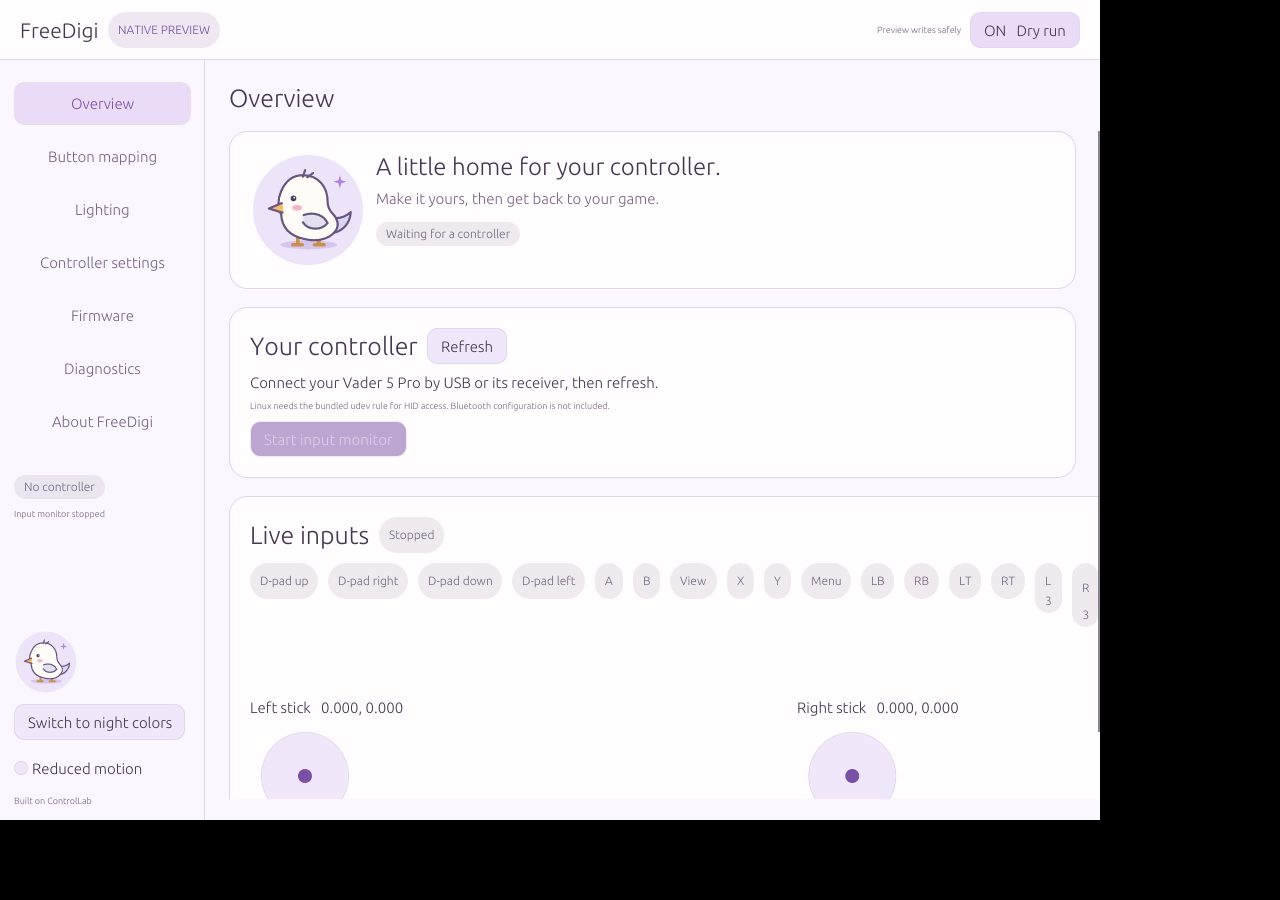
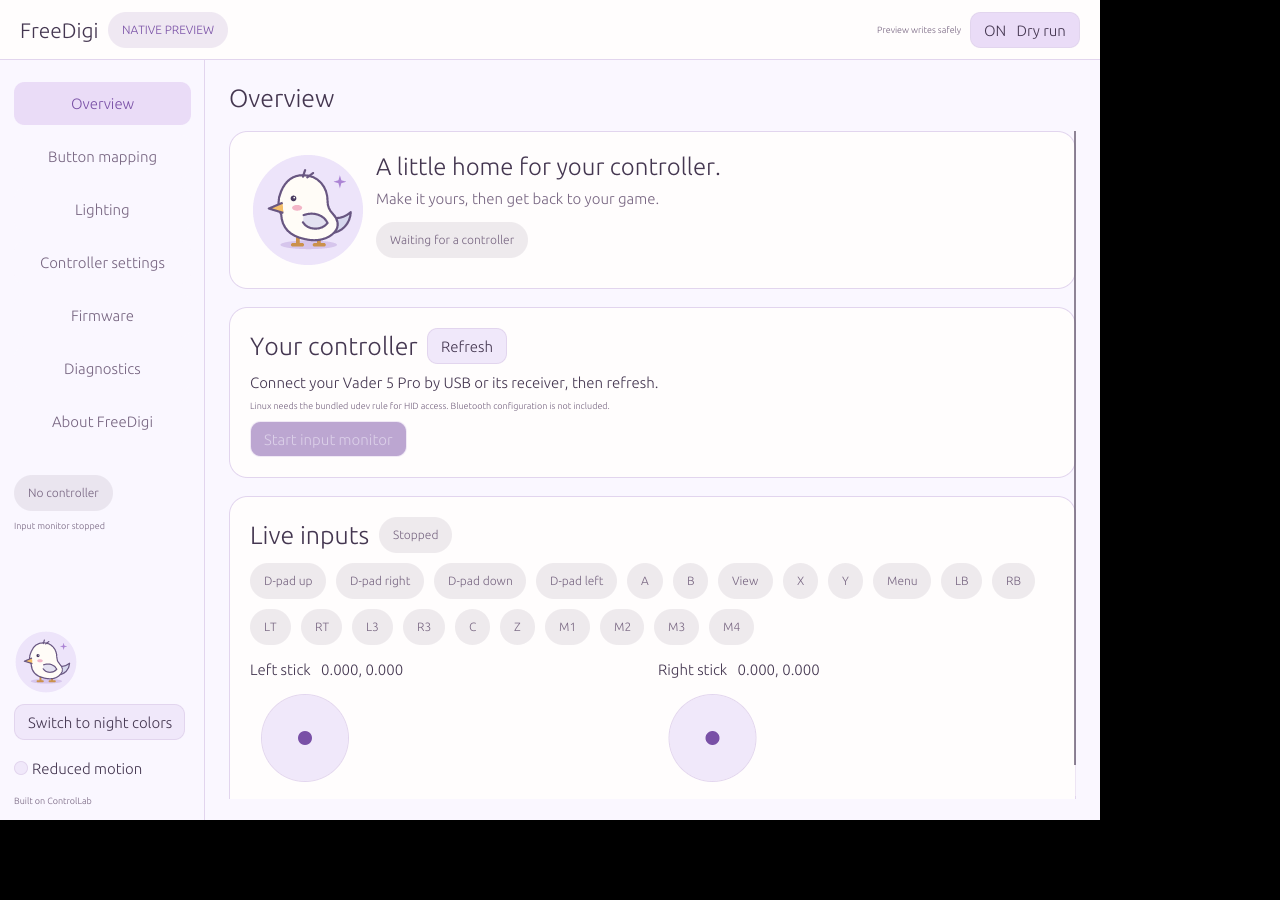
Speed up release builds and keep the Mac app ready to open

diff --git a/native/README.md b/native/README.md
@@ -63,3 +63,17 @@ toggle and installed firmware versions. Advanced mappings are preserved until
 edited. Macro/combo editors, firmware installation, Bluetooth configuration and
 virtual gamepad output are not included. Hardware I/O still needs validation on
 an attached controller. Windows is explicit unsupported-transport groundwork.
+
+## Build speed
+
+The package script builds **release only**, including its tests. Release has
+incremental compilation and 16 codegen units; whole-program LTO is disabled to
+avoid a costly relink after small edits. Cargo and Swift reuse their build caches
+in this checkout. Keep the same directory between updates. Do not delete
+`native/target` or `.build` unless diagnosing a cache problem.
+
+The script uses at most eight compiler jobs by default. Set
+`FREEDIGI_BUILD_JOBS=4` to reduce peak memory on a smaller laptop, or increase it
+explicitly on a larger machine. The first build downloads/compiles dependencies;
+later builds reuse them. On Mac the ready-to-open result is
+`native/dist/FreeDigi.app`, alongside the distributable zip.

diff --git a/docs/freedigi-mac-runner.md b/docs/freedigi-mac-runner.md
@@ -16,14 +16,14 @@ The workflow uploads the archive as a GitHub Actions artifact; it does not autom
 
 ## Build directly without a runner
 
-Install Rust (the workflow uses 1.97.0) and select Xcode with Swift 6+. Then:
+Install Rust with rustup if `cargo` is missing, and select Xcode with Swift 6+.
+The repository pins Rust 1.97.0; rustup installs that version automatically. Then:
 
 ```sh
 git clone https://github.com/ruxxzebre/freedigi.git ~/Developer/FreeDigi
 cd ~/Developer/FreeDigi
 ./native/scripts/build.sh
-unzip -q native/dist/FreeDigi-macos-arm64.zip -d native/dist/macos
-open native/dist/macos/FreeDigi.app
+open native/dist/FreeDigi.app
 ```
 
 If the directory already contains your FreeDigi checkout, use `git pull --ff-only`
